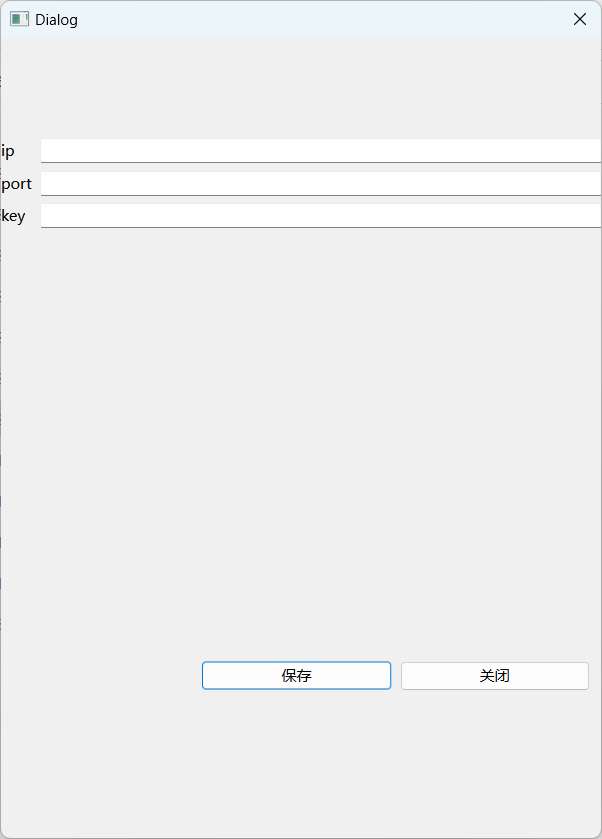
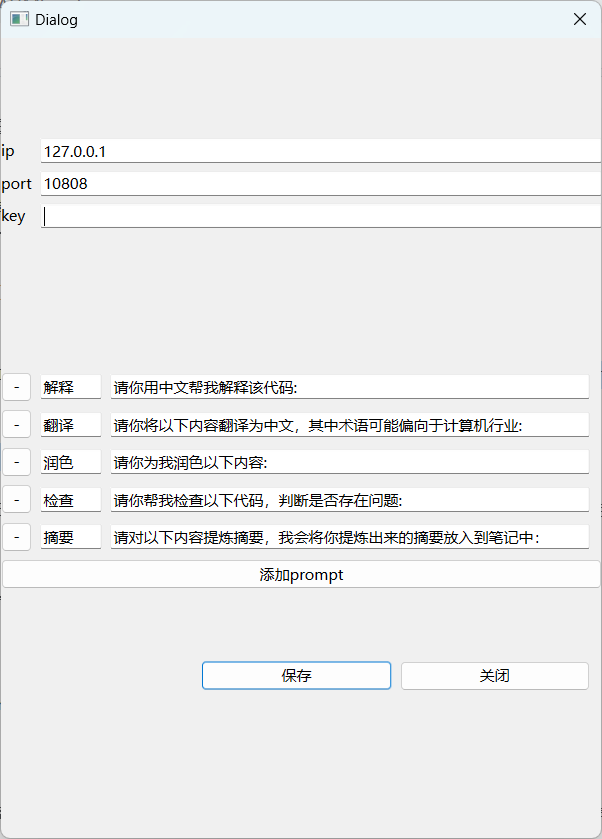
修改使用手册

diff --git a/README.md b/README.md
@@ -19,16 +19,26 @@
 ![设置界面](./src/setting.png)
 
 
-您需要填写IP、端口和API密钥，并且点击保存后关闭设置窗口。然后随便选中一个文字，会弹出侧边栏窗口：
+您需要填写IP、端口和API密钥，并且点击保存后关闭设置窗口。
+
+初始会提供4个prompt，你可以直接更改名称和prompt
+
+点击 添加prompt 按钮，会加一行，默认为 名称 提示语
+
+当按钮名称为名称 或者 按钮的提示语为提示语时，点击保持将不会保存该功能呢按钮
+
+然后随便选中一个文字，按下`ctrl c`会弹出侧边栏窗口：
 
 
 ![侧边栏](./src/line.png)
 
 在侧边栏中选择"关闭"，即可让设置生效。之后重新打开软件，再点击一次"设置"按钮，然后关闭设置窗口即可隐藏设置信息。
 
+选中文本后，点击"翻译"或"解释"按钮即可使用功能，会自动附加上您的prompt向chatgpt提问。
 
-选中文本后，点击"翻译"或"解释"按钮即可使用功能。
+点击侧边栏的隐藏按钮将会隐藏侧边栏，侧边栏在出现后10秒后会自动隐藏
 
+点击设置按钮调出设置界面
 
 ## 警告
 目前处于Demo开发阶段，欢迎您提供完善建议。
